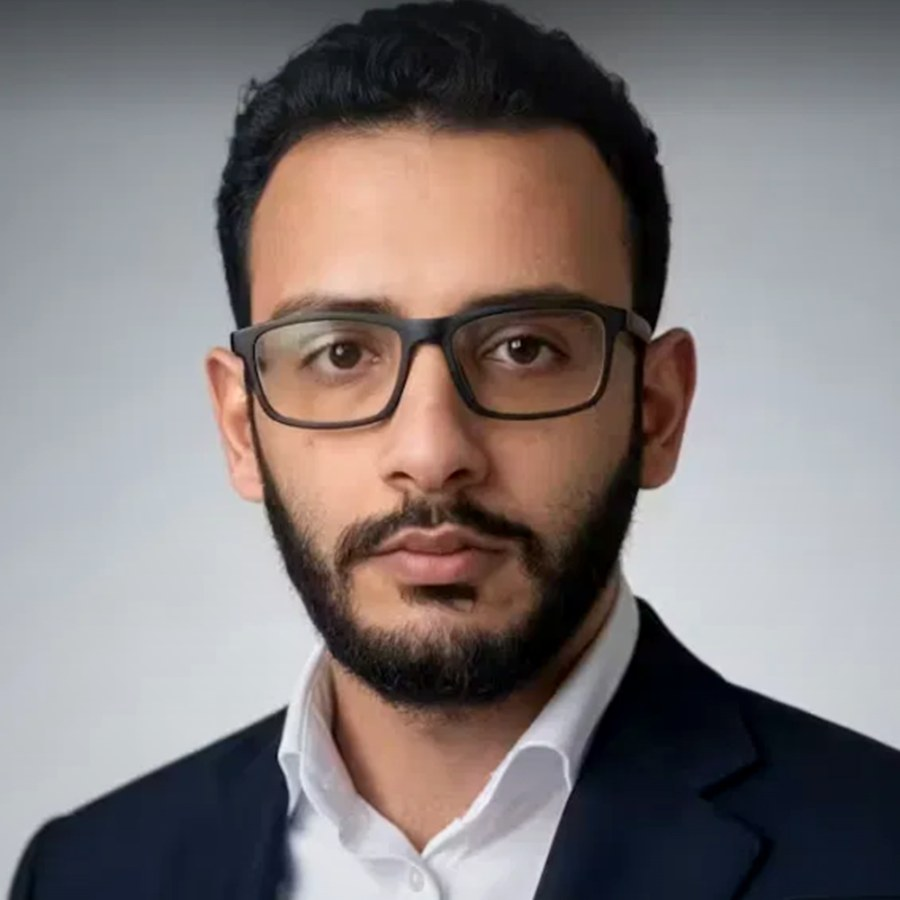
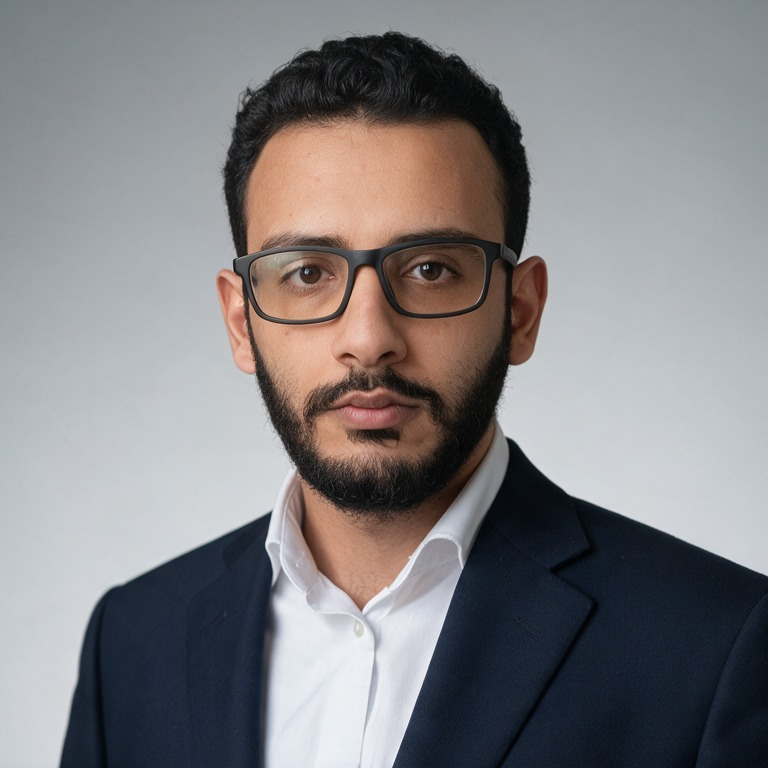
Use the clearer headshot
Swapped in the sharper source (IMG_8590, 1376x768) — better headroom and
shoulders, so the square crop frames the face properly.

make_headshot.py: never upscale (the new source is 768px square; enlarging to
900 would only soften it) and bump JPEG quality to 92. Social card regenerated.

diff --git a/scripts/make_headshot.py b/scripts/make_headshot.py
@@ -33,11 +33,14 @@ def main() -> int:
     top = int((h - side) * 0.30) if h > w else (h - side) // 2
     im = im.crop((left, top, left + side, top + side))
 
-    im = im.resize((SIZE, SIZE), Image.LANCZOS)
+    # Never upscale — enlarging a smaller source just softens it.
+    target = min(SIZE, side)
+    if target != side:
+        im = im.resize((target, target), Image.LANCZOS)
 
     os.makedirs(os.path.dirname(OUT), exist_ok=True)
-    im.save(OUT, "JPEG", quality=88, optimize=True, progressive=True)
-    print(f"WROTE {OUT}  ({os.path.getsize(OUT)/1024:.0f} KB, {SIZE}x{SIZE}, from {w}x{h})")
+    im.save(OUT, "JPEG", quality=92, optimize=True, progressive=True)
+    print(f"WROTE {OUT}  ({os.path.getsize(OUT)/1024:.0f} KB, {target}x{target}, from {w}x{h})")
     print("Next: set about.headshot = '/assets/headshot.jpg' in src/data/content.ts")
     return 0
 
